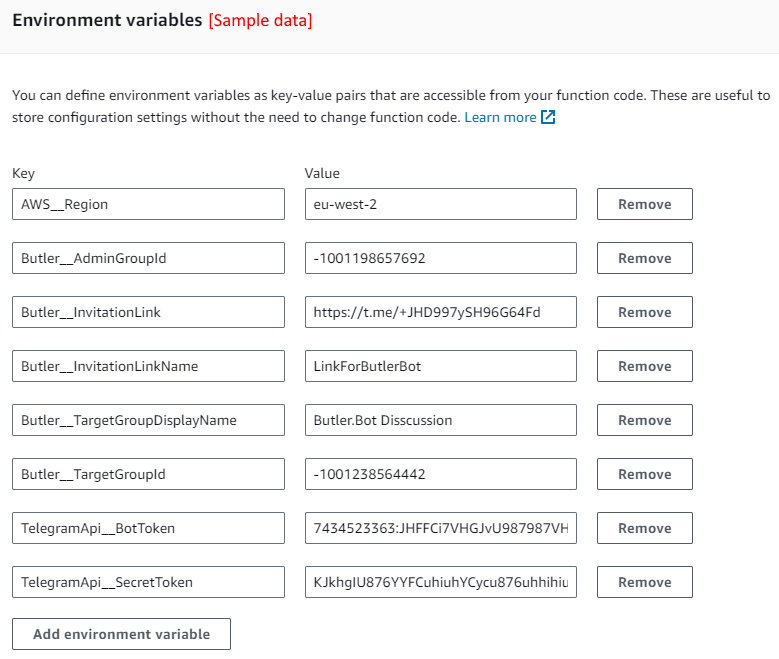
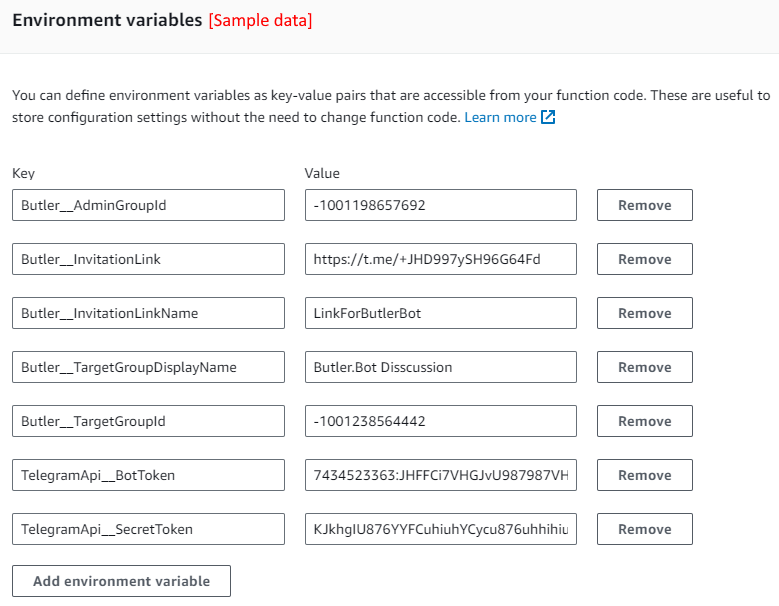
Extract Butler.Bot.DynamoDB for future use by Butler.Bot.Local

diff --git a/Butler.Bot.DynamoDB/GlobalUsings.cs b/Butler.Bot.DynamoDB/GlobalUsings.cs
@@ -5,23 +5,14 @@ global using Microsoft.Extensions.Configuration;
 global using Microsoft.Extensions.DependencyInjection;
 global using Microsoft.Extensions.Diagnostics.HealthChecks;
 
-// AspNetCore
-global using Microsoft.AspNetCore.Mvc;
-
 // Newtonsoft.Json
 global using Newtonsoft.Json;
 global using Newtonsoft.Json.Converters;
 
-// Telegram.Bot
-global using Telegram.Bot;
-global using Telegram.Bot.Exceptions;
-global using Telegram.Bot.Types;
-global using Telegram.Bot.Types.Enums;
-global using Telegram.Bot.Types.ReplyMarkups;
+// Amazon.DynamoDBv2
+global using Amazon;
+global using Amazon.DynamoDBv2;
+global using Amazon.DynamoDBv2.Model;
 
 // Bot.Core
 global using Butler.Bot.Core;
-
-// Bot.DynamoDB
-global using Butler.Bot.DynamoDB;
-

diff --git a/Butler.Bot.DynamoDB/DynamoDBClientFactory.cs b/Butler.Bot.DynamoDB/DynamoDBClientFactory.cs
@@ -1,0 +1,25 @@
+namespace Butler.Bot.DynamoDB;
+
+public static class DynamoDBClientFactory
+{
+    public static IAmazonDynamoDB CreateClient(IServiceProvider serviceProvider)
+    {
+        var options = serviceProvider.GetRequiredService<IOptions<DynamoUserRepositoryOptions>>().Value;
+
+        var config = CreateConfig(options);
+
+        return new AmazonDynamoDBClient(config);
+    }
+
+    private static AmazonDynamoDBConfig CreateConfig(DynamoUserRepositoryOptions options)
+    {
+        var config = new AmazonDynamoDBConfig();
+
+        if (!string.IsNullOrEmpty(options.Region))
+        {
+            config.RegionEndpoint = RegionEndpoint.GetBySystemName(options.Region);
+        }
+
+        return config;
+    }
+}

diff --git a/Butler.Bot.DynamoDB/ServiceCollectionExtensions.cs b/Butler.Bot.DynamoDB/ServiceCollectionExtensions.cs
@@ -1,7 +1,4 @@
-using Amazon.DynamoDBv2;
-using Butler.Bot.Core;
-
-namespace Butler.Bot.AWS;
+namespace Butler.Bot.DynamoDB;
 
 public static class ServiceCollectionExtensions
 {
@@ -9,10 +6,9 @@ public static class ServiceCollectionExtensions
     {
         services.Configure<DynamoUserRepositoryOptions>(config);
 
-        services.AddAWSService<IAmazonDynamoDB>();
+        services.AddSingleton<IAmazonDynamoDB>(DynamoDBClientFactory.CreateClient);
         services.AddSingleton<DynamoJoinRequestTable>();
         services.AddSingleton<IUserRepository, DynamoUserRepository>();
-
         return services;
     }
 }

diff --git a/Butler.Bot.AWS/Program.cs b/Butler.Bot.AWS/Program.cs
@@ -6,9 +6,7 @@ builder.Logging.ClearProviders();
 builder.Logging.AddLambdaLogger(builder.Configuration.GetLambdaLoggerOptions());
 
 builder.Services.Configure<ConsoleLifetimeOptions>(opts => opts.SuppressStatusMessages = true);
-
 builder.Services.AddAWSLambdaHosting(LambdaEventSource.HttpApi);
-builder.Services.AddDefaultAWSOptions(_ => builder.Configuration.GetAWSOptions());
 
 builder.Services.AddTelegramBotClient(builder.Configuration.GetSection("TelegramApi"));
 builder.Services.AddDynamoUserRepository(builder.Configuration.GetSection("DynamoUserRepository"));

diff --git a/Butler.Bot.DynamoDB/DynamoHealthCheck.cs b/Butler.Bot.DynamoDB/DynamoHealthCheck.cs
@@ -1,4 +1,4 @@
-namespace Butler.Bot.AWS;
+namespace Butler.Bot.DynamoDB;
 
 public class DynamoHealthCheck : IHealthCheck
 {
@@ -25,7 +25,7 @@ public class DynamoHealthCheck : IHealthCheck
         catch (Exception ex) 
         {
             logger.LogError(ex, "Error quering DynamoDB for test id: {Id}", testID);
-            return HealthCheckResult.Unhealthy("Error quering DynamoDB");
+            return HealthCheckResult.Unhealthy($"Error: {ex.Message}");
         }
     }
 }

diff --git a/Butler.Bot.AWS/HealthChecksExtensions.cs b/Butler.Bot.AWS/HealthChecksExtensions.cs
@@ -2,11 +2,6 @@
 
 public static class HealthChecksExtensions
 {
-    public static IHealthChecksBuilder AddDynamoHealthCheck(this IHealthChecksBuilder builder)
-    {
-        return builder.AddCheck<DynamoHealthCheck>("DynamoUserRepository");
-    }
-
     public static IHealthChecksBuilder AddSecretServiceCheck(this IHealthChecksBuilder builder)
     {
         return builder.AddCheck<SecretServiceHealthCheck>("SecretService");

diff --git a/Butler.Bot.DynamoDB/DynamoUserRepositoryOptions.cs b/Butler.Bot.DynamoDB/DynamoUserRepositoryOptions.cs
@@ -1,7 +1,10 @@
-namespace Butler.Bot.AWS;
+namespace Butler.Bot.DynamoDB;
 
 public class DynamoUserRepositoryOptions
 {
+    // if null then use AWS_REGION from execution context
+    public string? Region { get; init; }
+
     public string Table { get; init; } = "joinRequests";
 
     public string UserId { get; init; } = "id";

diff --git a/Butler.Bot.DynamoDB/HealthChecksExtensions.cs b/Butler.Bot.DynamoDB/HealthChecksExtensions.cs
@@ -1,0 +1,9 @@
+namespace Butler.Bot.DynamoDB;
+
+public static class HealthChecksExtensions
+{
+    public static IHealthChecksBuilder AddDynamoHealthCheck(this IHealthChecksBuilder builder)
+    {
+        return builder.AddCheck<DynamoHealthCheck>("DynamoUserRepository");
+    }
+}

diff --git a/Butler.Bot.DynamoDB/DynamoJoinRequestTable.cs b/Butler.Bot.DynamoDB/DynamoJoinRequestTable.cs
@@ -1,7 +1,4 @@
-using Amazon.DynamoDBv2;
-using Amazon.DynamoDBv2.Model;
-
-namespace Butler.Bot.AWS;
+namespace Butler.Bot.DynamoDB;
 
 public class DynamoJoinRequestTable
 {

diff --git a/Butler.Bot.DynamoDB/DynamoUserRepository.cs b/Butler.Bot.DynamoDB/DynamoUserRepository.cs
@@ -1,4 +1,4 @@
-namespace Butler.Bot.AWS;
+namespace Butler.Bot.DynamoDB;
 
 public class DynamoUserRepository : IUserRepository
 {

diff --git a/Docs/AwsDeployment.md b/Docs/AwsDeployment.md
@@ -45,9 +45,6 @@ Remember you function url. It will be base url for your bot webhook
 
 Goto configuration panel and setup the following environment variables for the lambda function.
 
-DynamoDB:
-* **AWS__Region** (string) - AWS region where DynamoDB table is created. 
-
 Telegram API:
 * **TelegramApi__BotToken** (string) - Token provided by @botfather during bot registration.
 * **TelegramApi__SecretToken** (string) - Token generated during webhook registration via setWebhook.
